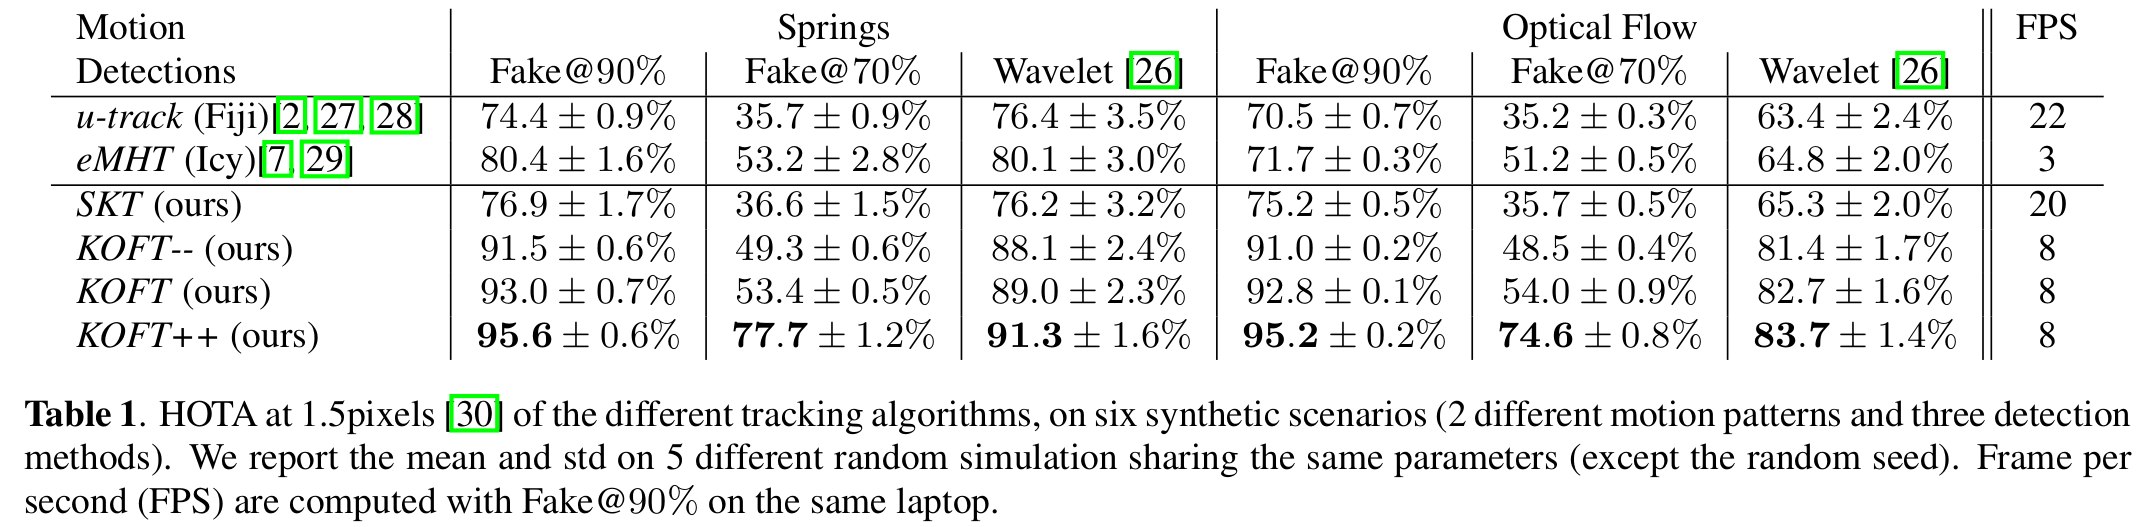
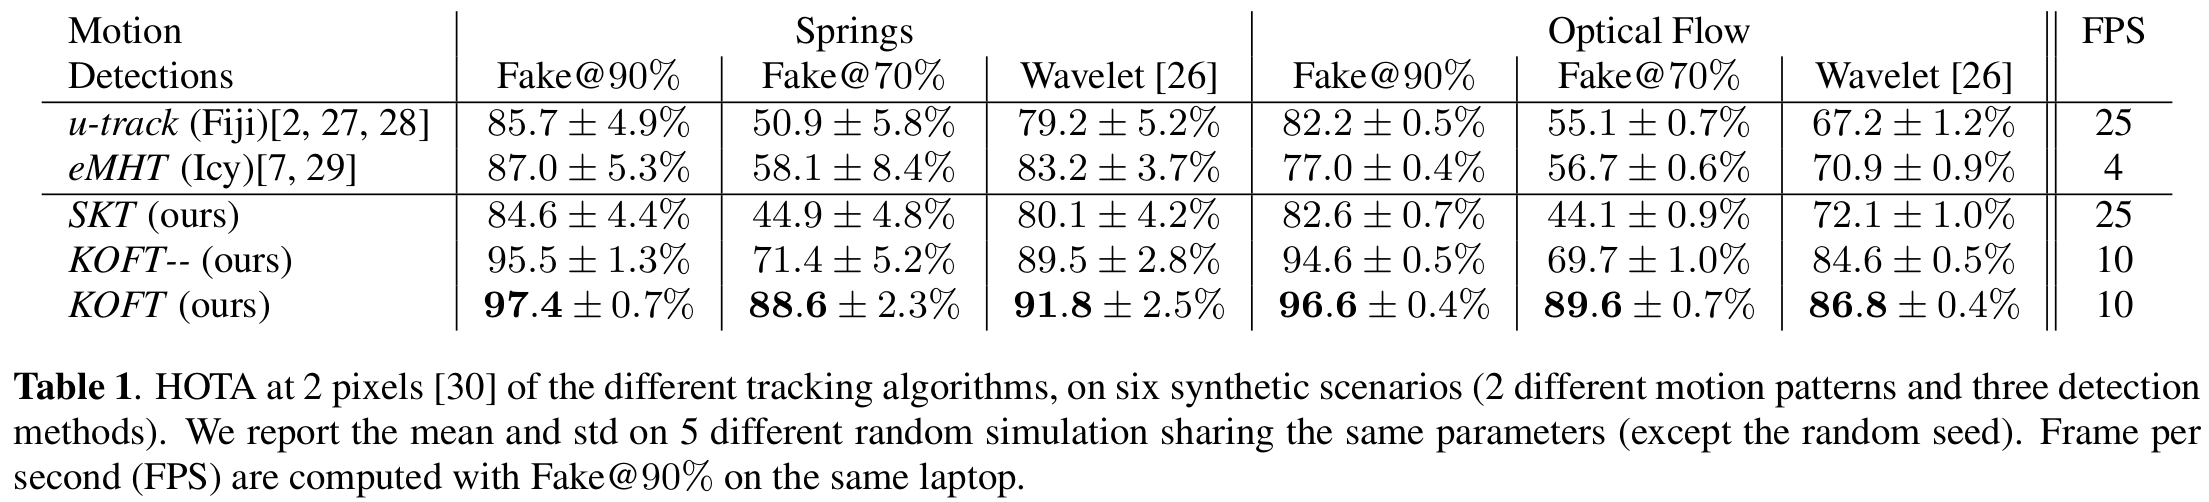
Add track vs snr experiments + Finish isbi results

diff --git a/src/experiments/snr_track.py b/src/experiments/snr_track.py
@@ -1,0 +1,112 @@
+"""Same as track but test several of_noise and only with koft"""
+
+import enum
+import pathlib
+
+import dacite
+import torch
+import tqdm  # type: ignore
+import yaml  # type: ignore
+
+
+from ..data import simulation
+from ..metrics.detections import DetectionMetric
+from ..metrics.tracking import compute_tracking_metrics
+from ..skt import MatchingConfig
+from ..koft import constant_koft_filter, OptFlowExtraction, TwoUpdateKOFTracker
+from ..optical_flow import farneback
+from ..utils import enforce_all_seeds
+from .track import ExperimentConfig, TrackingMethod
+
+
+def main(name: str, cfg_data: dict) -> None:
+    print("Running:", name)
+    print(yaml.dump(cfg_data))
+    cfg = dacite.from_dict(ExperimentConfig, cfg_data, dacite.Config(cast=[pathlib.Path, tuple, enum.Enum]))
+
+    enforce_all_seeds(cfg.seed)
+
+    # Ensure we are with a correct config
+    assert not cfg.real_data
+    assert cfg.tracking_method == TrackingMethod.KOFT
+
+    video = simulation.open_video(cfg.simulation_path)
+    ground_truth = simulation.load_ground_truth(cfg.simulation_path)
+
+    # Detections
+    detector = cfg.detection.create_detector(ground_truth["mu"])
+    detections_sequence = detector.run(video)
+
+    # Evaluate detections step performances
+    tp = 0.0
+    n_pred = 0.0
+    n_true = 0.0
+    for detections in detections_sequence:
+        det_metrics = DetectionMetric(1.5).compute_at(
+            detections, ground_truth["mu"][detections.frame_id], ground_truth["weight"][detections.frame_id]
+        )
+        tp += det_metrics["tp"]
+        n_pred += det_metrics["n_pred"]
+        n_true += det_metrics["n_true"]
+
+    print("=======Detection======")
+    print("Recall", tp / n_true if n_true else 1.0)
+    print("Precision", tp / n_pred if n_pred else 1.0)
+    print("f1", 2 * tp / (n_true + n_pred) if n_pred + n_true else 1.0)
+
+    best_metrics = {}
+    for of_noise in tqdm.tqdm([1.0, 2.0, 5.0]):  # Create a linker for each of_noise=
+        kalman_filter = constant_koft_filter(
+            torch.tensor(cfg.kalman.detection_noise),
+            torch.tensor(of_noise),
+            torch.tensor(cfg.kalman.process_noise),
+        )
+
+        metrics = {}
+        best_thresh = 0.0
+        best_hota = 0.0
+        for thresh in tqdm.tqdm(cfg.create_thresholds()):
+            linker = TwoUpdateKOFTracker(
+                kalman_filter,
+                farneback,
+                MatchingConfig(thresh, cfg.kalman.dist, cfg.kalman.matching_method),
+                OptFlowExtraction.POSTERIOR,
+                cfg.kalman.always_update_velocities,
+            )
+            try:
+                tracks = linker.run(video, detections_sequence)
+            except Exception as exc:  # pylint: disable=broad-exception-caught
+                tqdm.tqdm.write(str(exc))
+                tracks = []  # Tracking failed (For instance: timeout in EMHT)
+
+            tqdm.tqdm.write(f"Built {len(tracks)} tracks")
+
+            if len(tracks) == 0 or len(tracks) > ground_truth["mu"].shape[1] * 10:
+                tqdm.tqdm.write(f"Threshold: {thresh} => Tracking failed (too few or too many tracks). Continuing...")
+                continue
+
+            hota = compute_tracking_metrics(tracks, ground_truth)
+
+            # Hota @ 2 (-8 => Thresholds is 2)
+            metrics[thresh] = {key: value[-8].item() for key, value in hota.items()}
+
+            tqdm.tqdm.write(f"Threshold: {thresh} => HOTA@2.0: {metrics[thresh]['HOTA']}")
+            tqdm.tqdm.write(yaml.dump(metrics[thresh]))
+
+            if metrics[thresh]["HOTA"] > best_hota:
+                torch.save(hota, "hota.pt")  # Save full hota just in case
+                best_thresh = thresh
+                best_hota = metrics[thresh]["HOTA"]
+
+        if best_thresh == 0.0:
+            print("!==============! Tracking failed for all thresholds !==============!")
+            continue
+
+        print(f"Best threshold: {best_thresh}")
+        print(yaml.dump(metrics[best_thresh]))
+        metrics[best_thresh]["best_threshold"] = best_thresh
+
+        best_metrics[of_noise] = metrics[best_thresh]
+
+    with open("best_metrics.yml", "w", encoding="utf-8") as file:
+        file.write(yaml.dump(best_metrics))

diff --git a/scripts/isbi/aggregate_results.py b/scripts/isbi/aggregate_results.py
@@ -14,7 +14,7 @@ def main():
         f"{'method':15}|{'Fake@90%':20}|{'Fake@70%':20}|{'Wavelet':20}|{'Fake@90%':20}|{'Fake@70%':20}|{'Wavelet':20}"
     )
     detections = ["Fake@90%", "Fake@70%", "Wavelet"]
-    for method in ["trackmate", "trackmate-kf", "emht", "skt", "koft", "koft--", "koft++"]:
+    for method in ["trackmate", "trackmate-kf", "emht", "skt", "koft--", "koft"]:
         aggregated = []
         for motion in ["springs", "flow_20140829_1"]:
             paths = glob.glob(f"{os.environ['EXPERIMENT_DIR']}/tracking/{motion}/1000/1.5-50.0/*/exp.0/{method}/*/")
@@ -39,9 +39,6 @@ def main():
 
                 if not detection_name:
                     continue
-
-                # with open(pathlib.Path(path) / "best_metrics.yml", "r", encoding="utf-8") as file:
-                #     hota = yaml.safe_load(file)["HOTA"]
 
                 hota = torch.load(pathlib.Path(path) / "hota.pt")["HOTA"][-8]  # Let's ensure we are at 2.0 thresholds
 

diff --git a/README.md b/README.md
@@ -51,14 +51,14 @@ We provide scripts to generate the same dataset that we used and run the same ex
 
 ```bash
 $ # Generate dataset for 5 differents seeds
-$ bash scripts/isbi/generate_paper_dataset.sh 111
-$ bash scripts/isbi/generate_paper_dataset.sh 222
-$ bash scripts/isbi/generate_paper_dataset.sh 333
-$ bash scripts/isbi/generate_paper_dataset.sh 444
-$ bash scripts/isbi/generate_paper_dataset.sh 555
+$ bash scripts/isbi/generate_dataset.sh 111
+$ bash scripts/isbi/generate_dataset.sh 222
+$ bash scripts/isbi/generate_dataset.sh 333
+$ bash scripts/isbi/generate_dataset.sh 444
+$ bash scripts/isbi/generate_dataset.sh 555
 ```
 
-Reproducing the results for a particular method (skt, koft--, koft, koft++, emht, trackmate, trackmate-kf):
+Reproducing the results for a particular method (skt, koft--, koft, emht, trackmate, trackmate-kf):
 
 ```bash
 $ bash scripts/isbi/eval.sh $method  # With method in skt, koft, etc..
